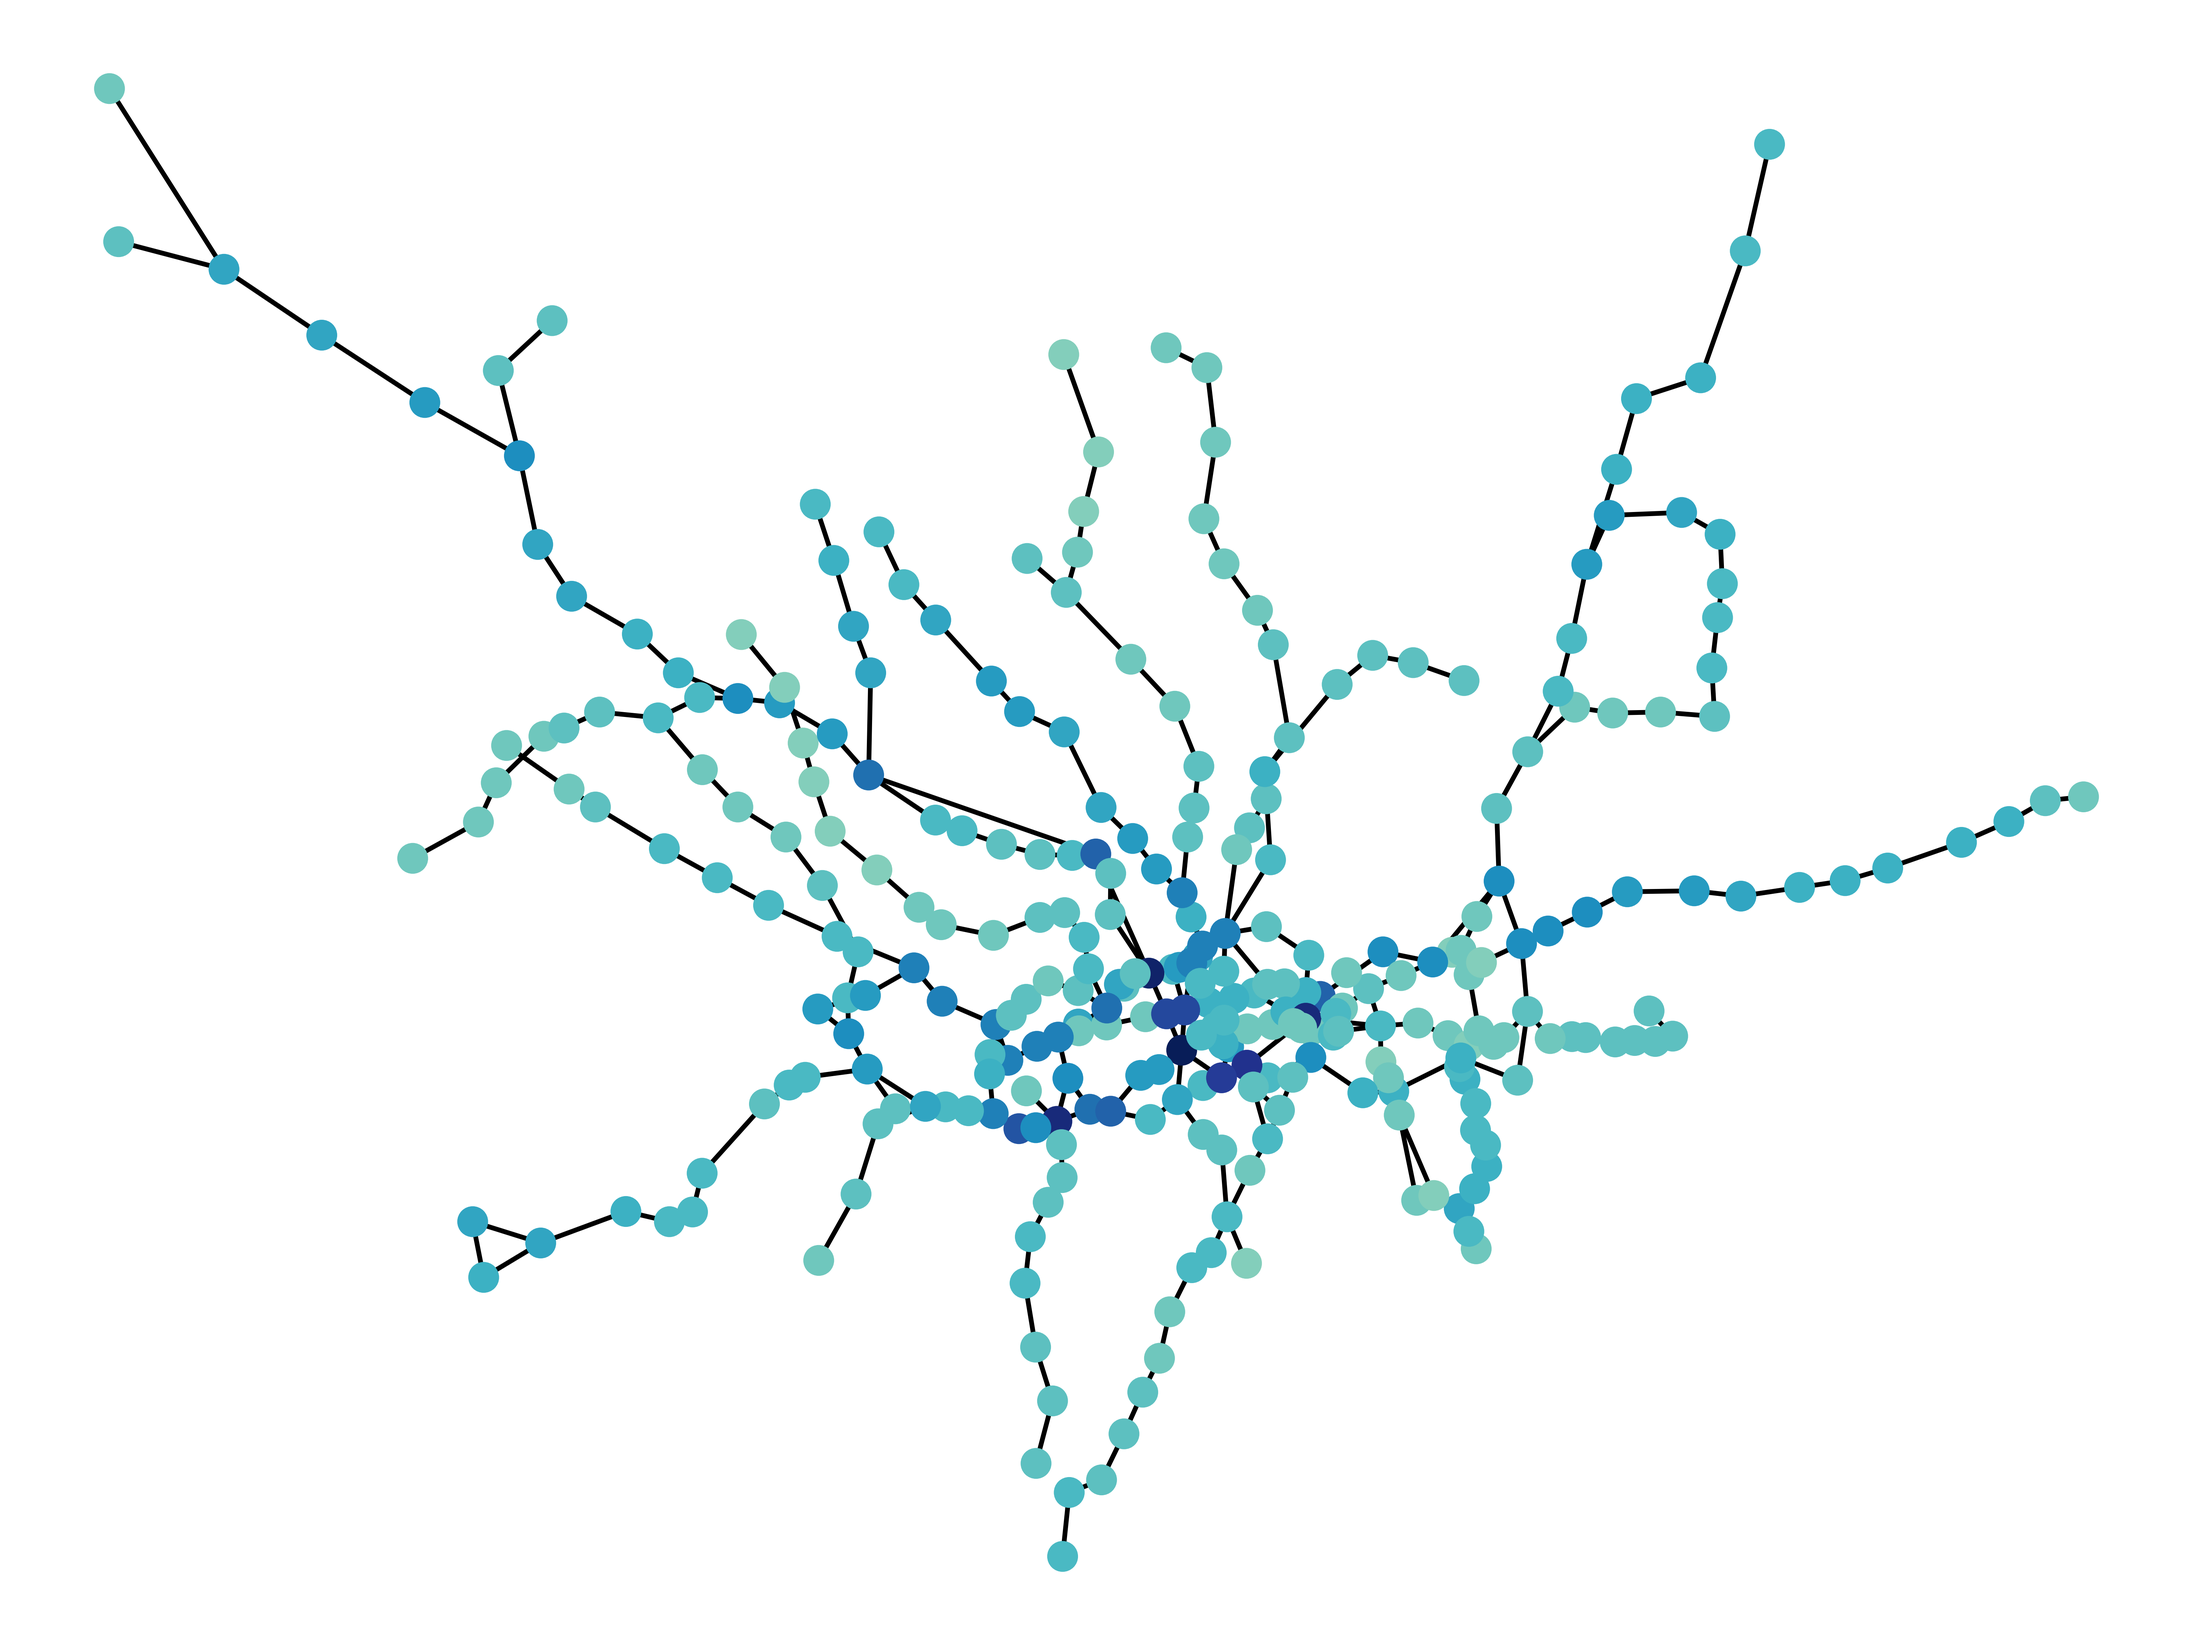
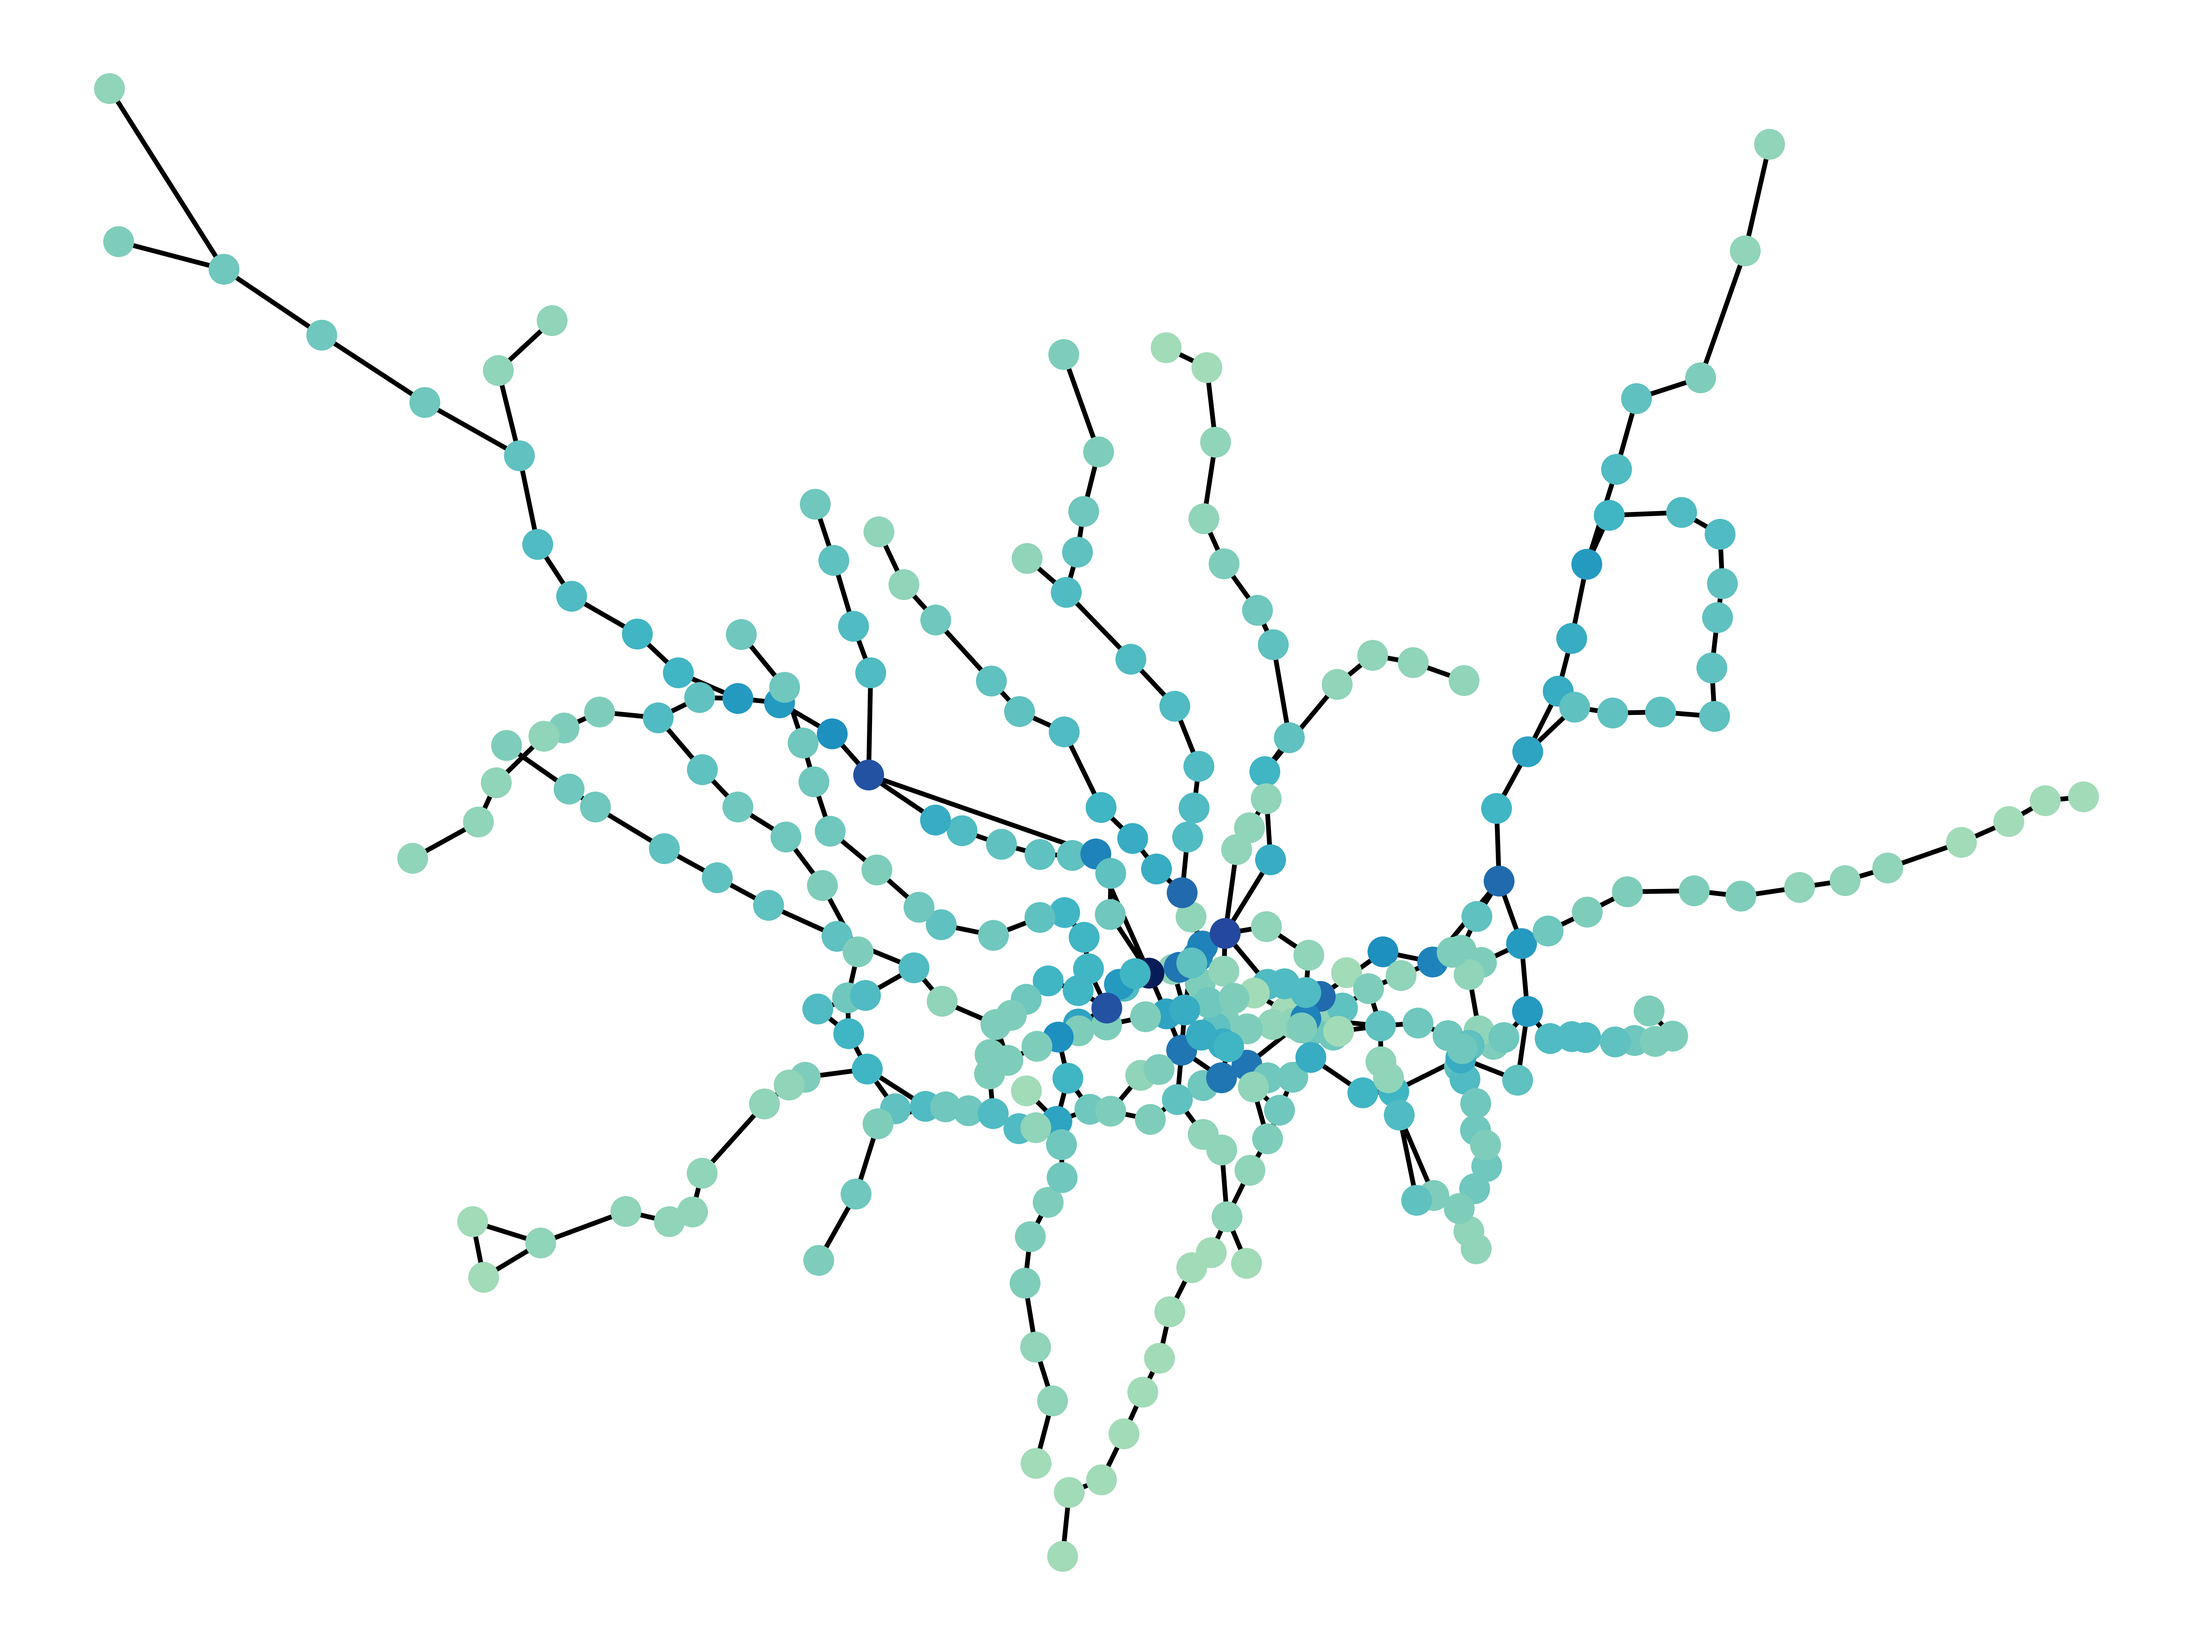
Image change.

diff --git a/london_create_data.py b/london_create_data.py
@@ -65,5 +65,5 @@ for i in range(num_clients):
 w.close()
 
 nx.draw(G, node_size=30, pos=positions, node_color=vectors[0], cmap="YlGnBu",
-               vmin=-1, vmax=2)
+               vmin=-2, vmax=2)
 plt.savefig('one_user.png', dpi=1000)

diff --git a/readme.md b/readme.md
@@ -74,7 +74,7 @@ simulating encryption of 100 clients
 clients encrypted the data
 clients created keys for decrypting heatmap
 heatmap decrypted:
-[2 3 17 3 2 5 3 3 1 2 4 1 2 2 3 0 5 4 3 10 2 6 3 4 4 3 4 6 1 1 2 5 3 4 1 3 2 3 4 4 1 2 0 15 2 1 4 2 1 2 1 8 2 3 1 3 3 3 6 2 9 2 2 3 1 2 7 7 1 3 3 2 4 3 5 10 3 1 1 6 0 6 2 2 4 5 1 0 1 1 1 3 1 2 2 5 1 1 2 5 1 3 5 2 1 2 1 3 1 1 3 2 7 1 3 5 1 13 3 4 3 2 4 8 2 6 2 1 2 4 2 3 2 1 1 5 0 1 6 2 0 1 8 3 3 9 4 0 3 4 7 2 3 11 3 6 8 6 2 1 6 4 2 2 1 8 6 2 3 8 7 7 2 1 6 7 1 2 4 1 3 3 2 1 3 3 2 5 0 2 1 0 9 2 2 1 3 2 3 0 3 1 5 1 2 1 4 2 1 3 3 1 2 5 2 6 2 5 3 1 14 2 3 6 2 2 4 3 8 7 2 2 3 3 8 1 2 6 5 0 1 4 1 16 1 4 5 4 3 6 8 2 2 0 1 6 0 7 0 3 10 3 12 3 1 3 5 0 2 1 5 2 2 8 1 2 4 2 3 15 1 7 7 4 2 8 4 2 4 2 7 12 3 1 6 1 5 4 3 3 3 3]
+[1 2 2 7 1 2 1 3 4 5 5 4 4 13 2 3 5 1 0 12 3 4 1 4 4 0 5 4 9 3 5 3 4 1 8 2 5 2 3 0 6 4 3 5 6 1 2 0 12 4 7 1 6 1 3 6 3 8 4 2 2 1 1 2 4 2 2 3 1 2 4 5 4 1 6 1 2 3 1 3 3 11 1 11 2 7 1 1 0 0 2 2 5 1 2 5 5 2 3 0 2 2 5 2 0 3 3 1 2 1 1 3 6 5 1 0 1 5 1 3 2 6 7 8 1 0 7 2 0 5 2 1 0 5 0 3 4 10 0 1 1 16 3 6 3 4 3 3 6 3 13 2 2 2 0 3 7 12 1 8 0 0 6 5 6 1 6 10 6 1 4 2 6 1 2 2 4 10 5 3 4 11 2 4 2 1 6 3 3 10 2 5 0 1 5 1 15 2 4 12 7 1 2 2 6 2 9 2 5 5 7 3 4 1 9 7 5 1 2 1 0 1 5 4 4 5 3 3 4 5 0 4 1 1 1 1 0 4 4 5 4 2 1 0 2 4 1 1 3 3 9 6 5 0 13 3 1 3 3 1 2 3 2 7 4 4 9 3 4 11 9 5 4 1 0 6 2 2 3 7 3 22 5 3 1 3 1 2 4 4 2 5 3 1 2 1 1 4 15 4 3 4]
 ````
 Explanation: the code simulates the above described process for 100 users. There are 302 London Underground stations
 included in this example, hence the output is a 302-dimensional vector describing how many users traveled through
